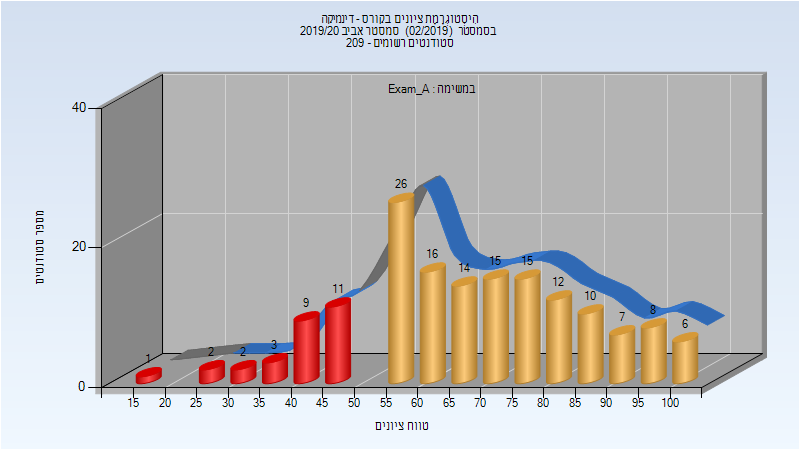
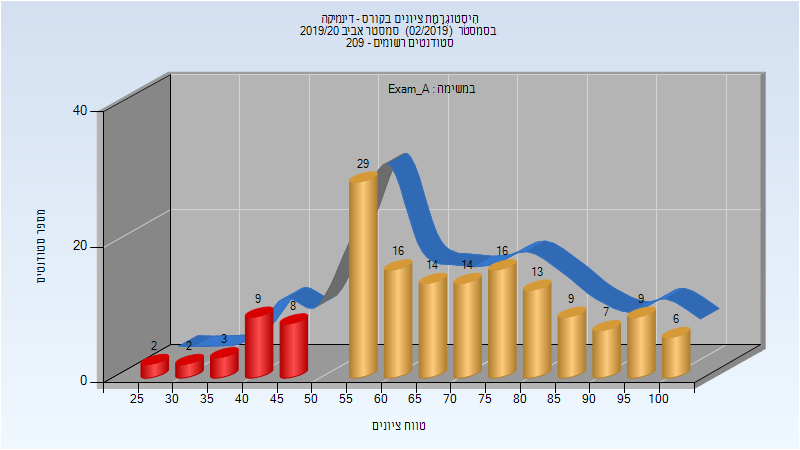
Deploy michael-maltsev/technion-histograms to github.com/michael-maltsev/technion-histograms.git:gh-pages

diff --git a/036013/index.html b/036013/index.html
@@ -62,5 +62,72 @@
 </tr>
 </tbody>
 </table>
+<h2>אביב 2020</h2>
+<table>
+<thead>
+<tr>
+<th>איש סגל</th>
+<th>תפקיד</th>
+</tr>
+</thead>
+<tbody>
+<tr>
+<td>הלוי יורם</td>
+<td>מרצה - אחראי מקצוע</td>
+</tr>
+</tbody>
+</table>
+<h3>סופי מועד א'</h3>
+<p><img src="201902/Final_A.png" alt="201902 Final_A" /></p>
+<table>
+<thead>
+<tr>
+<th>סטודנטים</th>
+<th>עברו/נכשלו</th>
+<th>אחוז עוברים</th>
+<th>ציון מינימלי</th>
+<th>ציון מקסימלי</th>
+<th>ממוצע</th>
+<th>חציון</th>
+</tr>
+</thead>
+<tbody>
+<tr>
+<td>28</td>
+<td>28/0</td>
+<td>100</td>
+<td>77</td>
+<td>97</td>
+<td>88.143</td>
+<td>89.5</td>
+</tr>
+</tbody>
+</table>
+<h3>סופי</h3>
+<p><img src="201902/Finals.png" alt="201902 Finals" /></p>
+<table>
+<thead>
+<tr>
+<th>סטודנטים</th>
+<th>עברו/נכשלו</th>
+<th>אחוז עוברים</th>
+<th>ציון מינימלי</th>
+<th>ציון מקסימלי</th>
+<th>ממוצע</th>
+<th>חציון</th>
+</tr>
+</thead>
+<tbody>
+<tr>
+<td>28</td>
+<td>28/0</td>
+<td>100</td>
+<td>77</td>
+<td>97</td>
+<td>88.143</td>
+<td>89.5</td>
+</tr>
+</tbody>
+</table>
   </body>
 </html>

diff --git a/034010/index.html b/034010/index.html
@@ -1163,12 +1163,64 @@
 <tbody>
 <tr>
 <td>157</td>
-<td>129/28</td>
-<td>82</td>
-<td>19.4</td>
+<td>133/24</td>
+<td>85</td>
+<td>29</td>
 <td>100</td>
-<td>68.169</td>
+<td>68.832</td>
 <td>68.8</td>
+</tr>
+</tbody>
+</table>
+<h3>סופי מועד א'</h3>
+<p><img src="201902/Final_A.png" alt="201902 Final_A" /></p>
+<table>
+<thead>
+<tr>
+<th>סטודנטים</th>
+<th>עברו/נכשלו</th>
+<th>אחוז עוברים</th>
+<th>ציון מינימלי</th>
+<th>ציון מקסימלי</th>
+<th>ממוצע</th>
+<th>חציון</th>
+</tr>
+</thead>
+<tbody>
+<tr>
+<td>157</td>
+<td>133/24</td>
+<td>85</td>
+<td>29</td>
+<td>100</td>
+<td>71.344</td>
+<td>73</td>
+</tr>
+</tbody>
+</table>
+<h3>סופי</h3>
+<p><img src="201902/Finals.png" alt="201902 Finals" /></p>
+<table>
+<thead>
+<tr>
+<th>סטודנטים</th>
+<th>עברו/נכשלו</th>
+<th>אחוז עוברים</th>
+<th>ציון מינימלי</th>
+<th>ציון מקסימלי</th>
+<th>ממוצע</th>
+<th>חציון</th>
+</tr>
+</thead>
+<tbody>
+<tr>
+<td>157</td>
+<td>133/24</td>
+<td>85</td>
+<td>29</td>
+<td>100</td>
+<td>71.344</td>
+<td>73</td>
 </tr>
 </tbody>
 </table>

diff --git a/034379/index.html b/034379/index.html
@@ -65,12 +65,12 @@
 </thead>
 <tbody>
 <tr>
-<td>42</td>
-<td>42/0</td>
+<td>44</td>
+<td>44/0</td>
 <td>100</td>
 <td>87</td>
 <td>100</td>
-<td>95.571</td>
+<td>95.5</td>
 <td>97</td>
 </tr>
 </tbody>

diff --git a/034010/README.md b/034010/README.md
@@ -361,5 +361,21 @@
 
 | סטודנטים | עברו/נכשלו | אחוז עוברים | ציון מינימלי | ציון מקסימלי | ממוצע | חציון |
 | ---- | ---- | ---- | ---- | ---- | ---- | ---- |
-| 157 | 129/28 | 82 | 19.4 | 100 | 68.169 | 68.8 |
+| 157 | 133/24 | 85 | 29 | 100 | 68.832 | 68.8 |
+
+### סופי מועד א'
+
+![201902 Final_A](201902/Final_A.png)
+
+| סטודנטים | עברו/נכשלו | אחוז עוברים | ציון מינימלי | ציון מקסימלי | ממוצע | חציון |
+| ---- | ---- | ---- | ---- | ---- | ---- | ---- |
+| 157 | 133/24 | 85 | 29 | 100 | 71.344 | 73 |
+
+### סופי
+
+![201902 Finals](201902/Finals.png)
+
+| סטודנטים | עברו/נכשלו | אחוז עוברים | ציון מינימלי | ציון מקסימלי | ממוצע | חציון |
+| ---- | ---- | ---- | ---- | ---- | ---- | ---- |
+| 157 | 133/24 | 85 | 29 | 100 | 71.344 | 73 |
 

diff --git a/036013/README.md b/036013/README.md
@@ -14,3 +14,25 @@
 | ---- | ---- | ---- | ---- | ---- | ---- | ---- |
 | 21 | 21/0 | 100 | 60 | 100 | 83.048 | 82 |
 
+## אביב 2020
+
+| איש סגל | תפקיד |
+| ---- | ---- |
+| הלוי יורם | מרצה - אחראי מקצוע |
+
+### סופי מועד א'
+
+![201902 Final_A](201902/Final_A.png)
+
+| סטודנטים | עברו/נכשלו | אחוז עוברים | ציון מינימלי | ציון מקסימלי | ממוצע | חציון |
+| ---- | ---- | ---- | ---- | ---- | ---- | ---- |
+| 28 | 28/0 | 100 | 77 | 97 | 88.143 | 89.5 |
+
+### סופי
+
+![201902 Finals](201902/Finals.png)
+
+| סטודנטים | עברו/נכשלו | אחוז עוברים | ציון מינימלי | ציון מקסימלי | ממוצע | חציון |
+| ---- | ---- | ---- | ---- | ---- | ---- | ---- |
+| 28 | 28/0 | 100 | 77 | 97 | 88.143 | 89.5 |
+

diff --git a/034379/README.md b/034379/README.md
@@ -18,5 +18,5 @@
 
 | סטודנטים | עברו/נכשלו | אחוז עוברים | ציון מינימלי | ציון מקסימלי | ממוצע | חציון |
 | ---- | ---- | ---- | ---- | ---- | ---- | ---- |
-| 42 | 42/0 | 100 | 87 | 100 | 95.571 | 97 |
+| 44 | 44/0 | 100 | 87 | 100 | 95.5 | 97 |
 
